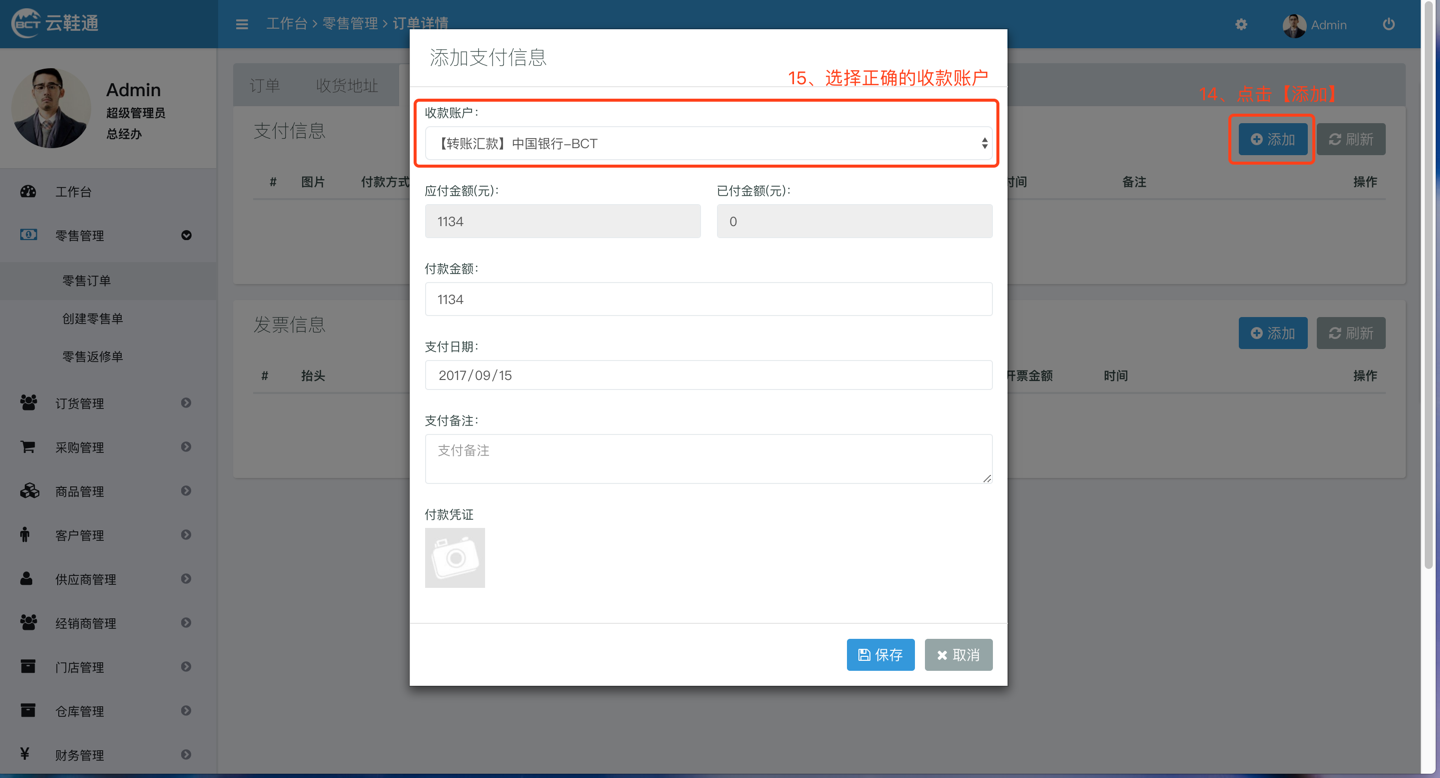
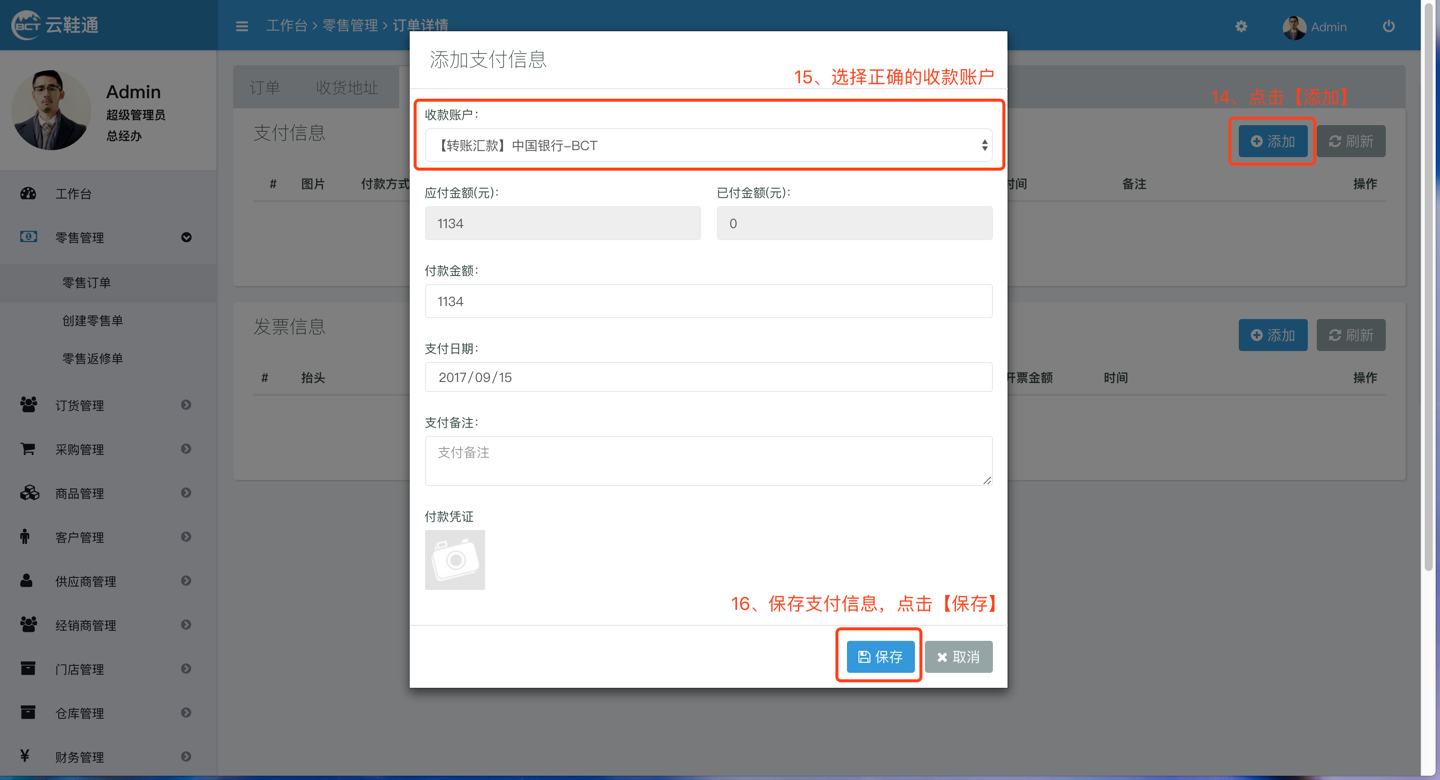
Updates shang-pin-guan-li/ling-shou/ling-shou-liu-cheng.md
Auto commit by GitBook Editor

diff --git a/shang-pin-guan-li/ling-shou/ling-shou-liu-cheng.md b/shang-pin-guan-li/ling-shou/ling-shou-liu-cheng.md
@@ -10,7 +10,7 @@
 
 点击【保存】—【确认】后，系统自动跳转到订单详情![](/assets/cjlsd-7.png)
 
-点击【付款】后，系统自动跳转到【支付信息】，在这里可以添加或删除该订单的支付信息
+点击【付款】后，系统自动跳转到【支付信息】，在这里可以添加或删除该订单的支付信息![](/assets/cjlsd-8.png)_\*1、选择正确的收款账户_（参考添加【[收款账户](/cai-wu-zi-liao/shou-kuan-zhang-hu.md)】）_，方便记账。_
 
-![](/assets/cjlsd-8.png)_\*1、选择正确的收款账户_（参考添加【收款账户】）_，方便记账。_
+![](/assets/cjlsd-9.png)_\*1、若支付信息正确则点击【已支付】，若点击【错误】则系统记录该条支付信息为错误信息，并不会造成任何影响，错误后可点击【删除】。_
 
